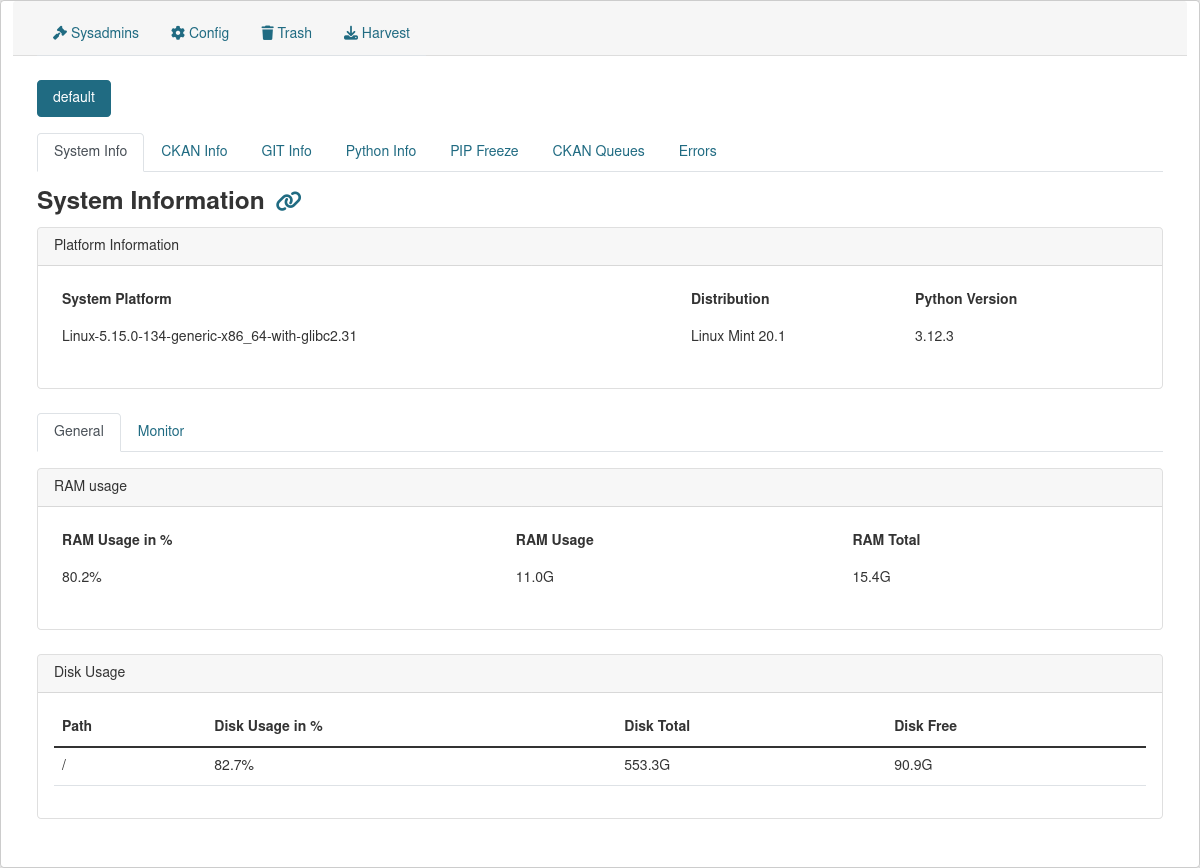
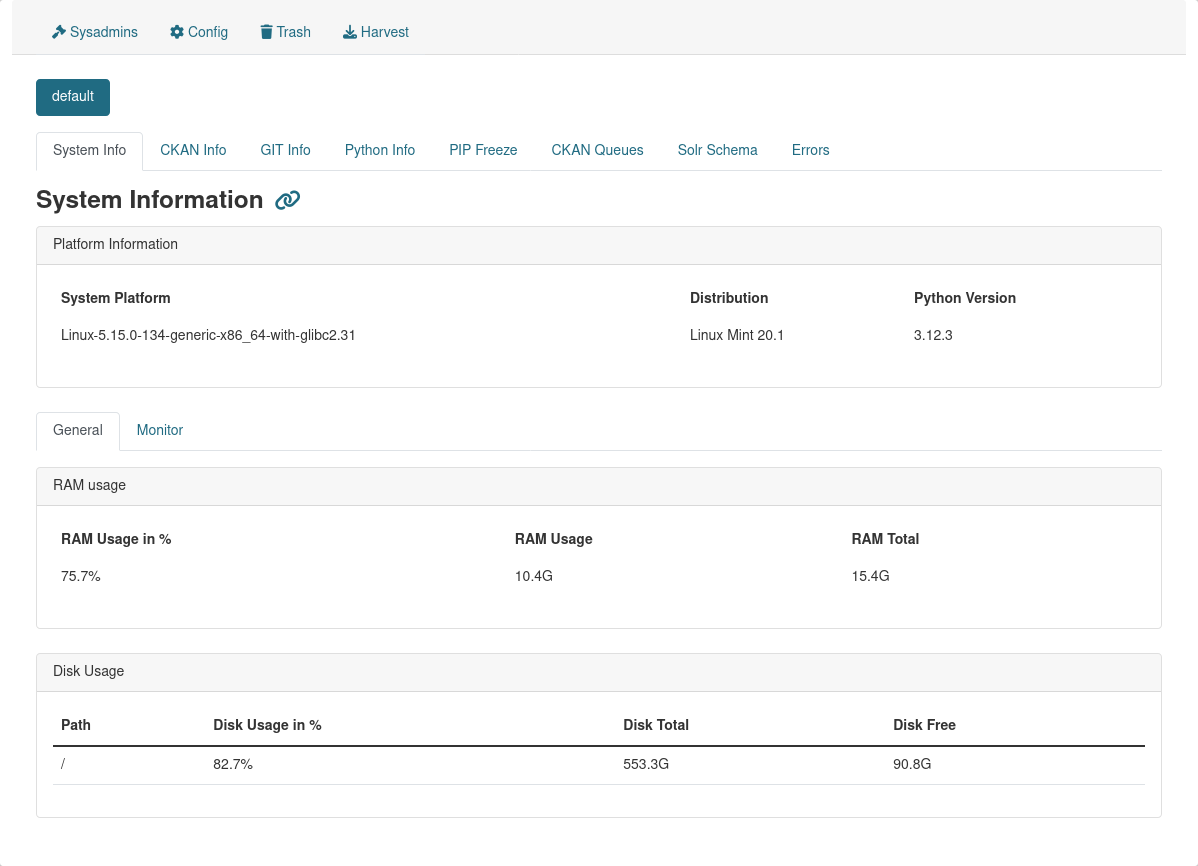
Adding Solr Schema tab

diff --git a/ckanext/selfinfo/templates/selfinfo/index.html b/ckanext/selfinfo/templates/selfinfo/index.html
@@ -48,16 +48,19 @@
                                     <a href="#nav-git-{{ profile }}" class="nav-link" id="nav-git-{{ profile }}-tab" data-bs-toggle="tab" data-bs-target="#nav-git-{{ profile }}" role="tab" aria-controls="nav-git-{{ profile }}" aria-selected="false">GIT Info</a>
                                 {% endif %}
                                 {% if data.python_modules %}
-                                <a href="#nav-python-{{ profile }}" class="nav-link" id="nav-python-{{ profile }}-tab" data-bs-toggle="tab" data-bs-target="#nav-python-{{ profile }}" role="tab" aria-controls="nav-python-{{ profile }}" aria-selected="false">Python Info</a>
+                                    <a href="#nav-python-{{ profile }}" class="nav-link" id="nav-python-{{ profile }}-tab" data-bs-toggle="tab" data-bs-target="#nav-python-{{ profile }}" role="tab" aria-controls="nav-python-{{ profile }}" aria-selected="false">Python Info</a>
                                 {% endif %}
                                 {% if data.freeze %}
-                                <a href="#nav-freeze-{{ profile }}" class="nav-link" id="nav-freeze-{{ profile }}-tab" data-bs-toggle="tab" data-bs-target="#nav-freeze-{{ profile }}" role="tab" aria-controls="nav-freeze-{{ profile }}" aria-selected="false">PIP Freeze</a>
+                                    <a href="#nav-freeze-{{ profile }}" class="nav-link" id="nav-freeze-{{ profile }}-tab" data-bs-toggle="tab" data-bs-target="#nav-freeze-{{ profile }}" role="tab" aria-controls="nav-freeze-{{ profile }}" aria-selected="false">PIP Freeze</a>
                                 {% endif %}
                                 {% if data.ckan_queues %}
-                                <a href="#nav-ckan_queues-{{ profile }}" class="nav-link" id="nav-ckan_queues-{{ profile }}-tab" data-bs-toggle="tab" data-bs-target="#nav-ckan_queues-{{ profile }}" role="tab" aria-controls="nav-ckan_queues-{{ profile }}" aria-selected="false">CKAN Queues</a>
+                                    <a href="#nav-ckan_queues-{{ profile }}" class="nav-link" id="nav-ckan_queues-{{ profile }}-tab" data-bs-toggle="tab" data-bs-target="#nav-ckan_queues-{{ profile }}" role="tab" aria-controls="nav-ckan_queues-{{ profile }}" aria-selected="false">CKAN Queues</a>
+                                {% endif %}
+                                {% if data.ckan_solr_schema %}
+                                    <a href="#nav-ckan_solr_schema-{{ profile }}" class="nav-link" id="nav-ckan_solr_schema-{{ profile }}-tab" data-bs-toggle="tab" data-bs-target="#nav-ckan_solr_schema-{{ profile }}" role="tab" aria-controls="nav-ckan_solr_schema-{{ profile }}" aria-selected="false">Solr Schema</a>
                                 {% endif %}
                                 {% if 'errors' in data %}
-                                <a href="#nav-errors-{{ profile }}" class="nav-link" id="nav-errors-{{ profile }}-tab" data-bs-toggle="tab" data-bs-target="#nav-errors-{{ profile }}" role="tab" aria-controls="nav-errors-{{ profile }}" aria-selected="false">Errors</a>
+                                    <a href="#nav-errors-{{ profile }}" class="nav-link" id="nav-errors-{{ profile }}-tab" data-bs-toggle="tab" data-bs-target="#nav-errors-{{ profile }}" role="tab" aria-controls="nav-errors-{{ profile }}" aria-selected="false">Errors</a>
                                 {% endif %}
 
                                 {% snippet 'selfinfo/snippets/additional_navigation_tabs.html', profile=profile, data=data, full_url=full_url %}
@@ -88,6 +91,11 @@
                             {% if data.ckan_queues %}
                             <div class="tab-pane fade mt-3" id="nav-ckan_queues-{{ profile }}" role="tabpanel" aria-labelledby="nav-ckan_queues-tab">
                                 {% snippet 'selfinfo/snippets/ckan_queues.html', profile=profile, data=data, full_url=full_url, id='nav-ckan_queues-' ~ profile %}
+                            </div>
+                            {% endif %}
+                            {% if data.ckan_solr_schema %}
+                            <div class="tab-pane fade mt-3" id="nav-ckan_solr_schema-{{ profile }}" role="tabpanel" aria-labelledby="nav-ckan_solr_schema-tab">
+                                {% snippet 'selfinfo/snippets/self_ckan_solr_schema.html', profile=profile, data=data, full_url=full_url, id='nav-ckan_solr_schema-' ~ profile %}
                             </div>
                             {% endif %}
                             {% if 'errors' in data %}

diff --git a/ckanext/selfinfo/templates/selfinfo/snippets/self_ckan_solr_schema.html b/ckanext/selfinfo/templates/selfinfo/snippets/self_ckan_solr_schema.html
@@ -1,0 +1,13 @@
+<h2 class="mt-3">
+    {{ _('Solr Schema') }}
+    <button class="text-primary bg-transparent box-shadow-none border-0" onclick='copyElementContent("{{ id }}-anchor")'>
+        <i class="fa fa-link fs-3" aria-hidden="true"></i>
+    </button>
+    <div id="{{ id }}-anchor" class="hidden d-none">
+        {{ full_url ~ '#' ~ id }}
+    </div>
+</h2>
+<div class="position-relative">
+    <button class="position-absolute end-0 top-0 btn btn-primary" onclick='copyElementContent("ckan_solr_schema-text")'>{{ _('Copy') }}</button>
+    <pre><code class="language-xml" id="ckan_solr_schema-text">{{ data.ckan_solr_schema.schema | e }}</code></pre>
+</div>

diff --git a/ckanext/selfinfo/utils.py b/ckanext/selfinfo/utils.py
@@ -20,6 +20,10 @@ import socket
 from ckan.lib.redis import connect_to_redis, Redis
 import ckan.plugins.toolkit as tk
 from ckan.lib import jobs
+from ckan.lib.search.common import (
+    is_available as solr_available,
+    make_connection as solr_connection,
+)
 
 import ckanext.selfinfo.config as self_config
 
@@ -367,6 +371,30 @@ def get_ckan_queues():
             "jobs": [jobs.dictize_job(job) for job in queue.get_jobs(0, 100)],
             "above_the_limit": True if jobs_counts > 100 else False,
         }
+
+    return data
+
+
+def get_solr_schema():
+    data = {}
+    schema_filename = self_config.selfinfo_get_solr_schema_filename()
+
+    if solr_available() and schema_filename:
+        try:
+            solr = solr_connection()
+            solr_url = solr.url
+
+            schema_url = f"{solr_url.rstrip('/')}/admin/file"
+            params = {
+                "file": schema_filename,
+                "contentType": "application/xml;charset=utf-8",
+            }
+            schema_response = requests.get(schema_url, params=params)
+            schema_response.raise_for_status()
+
+            data["schema"] = schema_response.text
+        except requests.exceptions.HTTPError as e:
+            log.error("Solr Schema: Please re-check the filename you provided. %s", e)
 
     return data
 

diff --git a/ckanext/selfinfo/config.py b/ckanext/selfinfo/config.py
@@ -20,6 +20,7 @@ CATEGORIES = {
     "helpers": selfutils.ckan_helpers,
     "status_show": selfutils.get_status_show,
     "ckan_queues": selfutils.get_ckan_queues,
+    "ckan_solr_schema": selfutils.get_solr_schema,
 }
 
 SELLFINFO_SET_URL = "ckan.selfinfo.page_url"
@@ -39,6 +40,7 @@ SELFINFO_CATEGORIES_LIST = "ckan.selfinfo.categories_list"
 SELFINFO_ADDITIONAL_PROFILES_USING_REDIS_KEYS = (
     "ckan.selfinfo.additional_profiles_using_redis_keys"
 )
+SELFINFO_SOLR_SCHEMA_FILENAME = "ckan.selfinfo.solr_schema_filename"
 STORE_TIME: float = 604800.0  # one week
 # STORE_TIME: float = 1.0
 PYPI_URL: Literal["https://pypi.org/pypi/"] = "https://pypi.org/pypi/"
@@ -87,3 +89,7 @@ def selfinfo_get_dulicated_envs_mode():
 
 def selfinfo_get_dulicated_envs_shared_categories():
     return tk.config.get(SELFINFO_DUPLICATED_ENVS_SHARED_CATEGORIES)
+
+
+def selfinfo_get_solr_schema_filename():
+    return tk.config.get(SELFINFO_SOLR_SCHEMA_FILENAME)

diff --git a/docs/index.md b/docs/index.md
@@ -29,7 +29,7 @@ On CKAN admin page `/ckan-admin/selfinfo`, admin can see such information as:
     - Auth
     - Helpers
     - Blueprints
-* **GIT Information** (Optional, see [Config Settings section](git_info.md))
+* **GIT Information** (Optional, see [Config Settings section](configuration/git_info.md))
     - Project
     - Head
     - Based on
@@ -40,10 +40,12 @@ On CKAN admin page `/ckan-admin/selfinfo`, admin can see such information as:
     - List of modules that are installed.
 * **Python Information**
     - Provides information about CKAN Core, CKAN Extensions, Python installed packages. It shows their current version and latest version.
-* **Errors** (Optional, see [Enable Error Saving](errors.md))
-    - Shows latest exceptions.
 * **CKAN Queues**
     - Show queues and their active jobs.
+* **Solr Schema** (Optional, see [Enable Solr Schema](configuration/solr_schema.md))
+    - Shows latest exceptions.
+* **Errors** (Optional, see [Enable Error Saving](configuration/errors.md))
+    - Shows latest exceptions.
 
 
-Recommened to firstly visit [Secure URL and Action](secure_url_and_action.md) and [Unique Redis key](unique_redis_key_per_portal_instance.md) after the installation done.
+Recommened to firstly visit [Secure URL and Action](configuration/secure_url_and_action.md) and [Unique Redis key](configuration/unique_redis_key_per_portal_instance.md) after the installation done.

diff --git a/docs/configuration/secure_url_and_action.md b/docs/configuration/secure_url_and_action.md
@@ -4,9 +4,9 @@ Out of the box, Selfinfo page registered under `/ckan-admin/selfinfo` URL, which
 
 To add an additional layer of protection, provide an custom path that will modify the original path, so other wont know under what URL it is actually registered. This can be done by adding `ckan.selfinfo.page_url` to CKAN config, where that value is your custom URL.
 
-![Modifeid Main Selfinfo URL](assets/modified_url.png)
+![Modifeid Main Selfinfo URL](../assets/modified_url.png)
 
 
 Same goes for main Selfinfo endpoint that provides same information, but in API format. By default it uses `get_selfinfo` endpoint and to modify it using `ckan.selfinfo.main_action_name` CKAN config, where that value is the new action name.
 
-![Modifeid Main Selfinfo Action](assets/modified_action_name.png)
+![Modifeid Main Selfinfo Action](../assets/modified_action_name.png)

diff --git a/docs/config_settings.md b/docs/config_settings.md
@@ -19,6 +19,8 @@ For Linux, keep in mind that the added folder in `ckan.selfinfo.ckan_repos_path`
 
 Errors for GIT now being stored below the original Table on GIT Info tab.
 
+**`ckan.selfinfo.solr_schema_filenamet`** - (Optional) Used to specify the filename that Solr uses for CKAN schema. Mentioned in [Enable Solr Schema](configuration/solr_schema.md).
+
 **`ckan.selfinfo.additional_profiles_using_redis_keys`** - Retrieves selfinfo data on page from external sources that store selfinfo data using `write-selfinfo` cli command under unique Redis key. The stored data should be under same Redis connection as per the "default" profile.
 
 Example: `unique_redis_key_1 unique_redis_key_2`

diff --git a/docs/configuration/categories.md b/docs/configuration/categories.md
@@ -4,7 +4,7 @@ Out of the box, Selfinfo will try to load all the possible information that curr
 
 This is really needed, when you have an instance that doesn't use UI, like CKAN Jobs worker, so for example the Blueprints are not needed, as CKAN won't provide them or Python Modules, which can be spacing consuming for big projects.
 
-See [Config Settings](config_settings.md) for an example of this CKAN Config.
+See [Config Settings](../config_settings.md) for an example of this CKAN Config.
 
 Here are the current list of categories to choose:
 
@@ -23,4 +23,5 @@ ckan.selfinfo.categories_list =
     helpers
     status_show
     ckan_queues
+    ckan_solr_schema
 ```

diff --git a/docs/configuration/solr_schema.md b/docs/configuration/solr_schema.md
@@ -1,0 +1,7 @@
+## Enable Solr Schema
+
+![Enabled GIT Info](../assets/solr_schema.png)
+
+In order to enable Solr Schema you need to add `ckan.selfinfo.solr_schema_filename`, which is the filename that Solr uses for your schema. In different Solr settings this file can be named `managed-schema` or `schema.xml`, you can find which one Solr is using in your Solr Core directory -> conf folder.
+
+If `ckan.selfinfo.solr_schema_filename` is not set, the tab will be missing.

diff --git a/docs/configuration/unique_redis_key_per_portal_instance.md b/docs/configuration/unique_redis_key_per_portal_instance.md
@@ -6,4 +6,4 @@ To avoid this, you can add an unique Redis prefix key, that will allow you to se
 
 Example: adding `random_key` will store the data under `random_key_errors_selinfo`.
 
-![Selfinfo unique Redis prefix](assets/redis_unique_prefix.png)
+![Selfinfo unique Redis prefix](../assets/redis_unique_prefix.png)

diff --git a/docs/configuration/git_info.md b/docs/configuration/git_info.md
@@ -1,6 +1,6 @@
 ## Enable GIT Info
 
-![Enabled GIT Info](assets/git.png)
+![Enabled GIT Info](../assets/git.png)
 
 In order to enable GIT Info you need to add the `ckan.selfinfo.ckan_repos_path`, which is the path to your folder, where all extensions stored.
 

diff --git a/docs/configuration/errors.md b/docs/configuration/errors.md
@@ -1,6 +1,6 @@
 ## Enable Errors Saving
 
-![Enabled Errors storing](assets/errors.png)
+![Enabled Errors storing](../assets/errors.png)
 
 In CKAN INI file, need to add and modify few lines.
 
